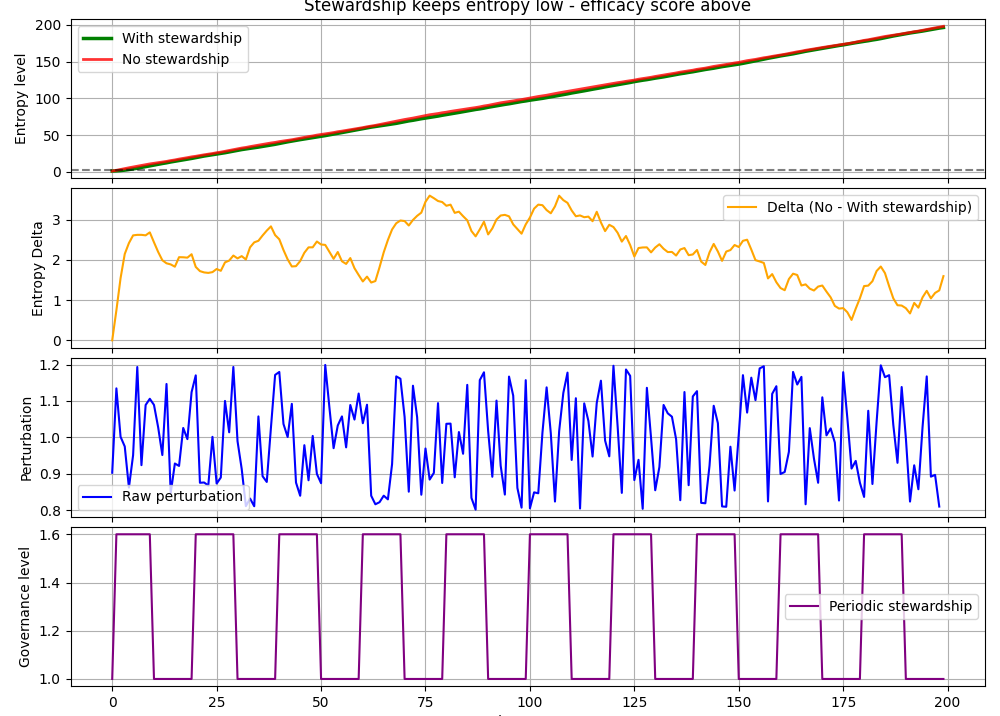
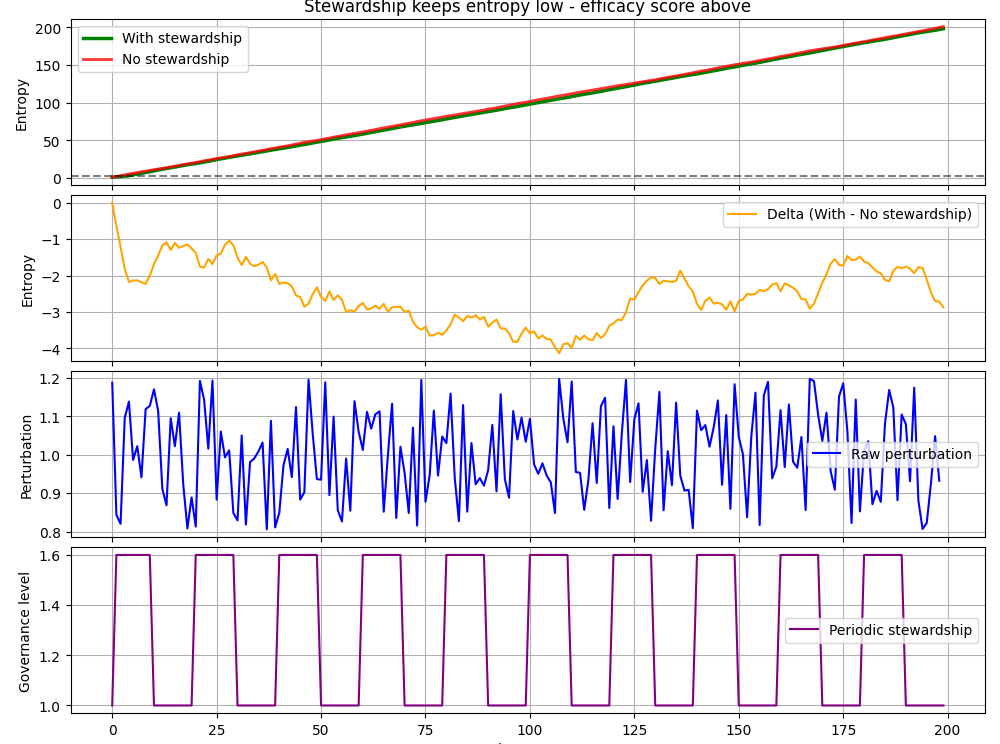
Add files via upload

diff --git a/principles/07_stewardship/07_Stewardship_Entropy.py b/principles/07_stewardship/07_Stewardship_Entropy.py
@@ -41,28 +41,28 @@ for i in range(1, steps):
     slope_u.append(new_slope)
     entropy_u.append(new_ent)
 
-# One-score metric: mean final stretch efficacy
-efficacy = np.mean(entropy_g[-20:]) - np.mean(entropy_u[-20:])
+# One-score metric: mean final stretch efficacy (using negative entropy for consistency)
+efficacy = np.mean([-e for e in entropy_g[-20:]]) - np.mean([-e for e in entropy_u[-20:]])
 print(f"Stewardship efficacy score: {efficacy:.3f}")
 
-# Calculate delta
-delta_entropy = [u - g for u, g in zip(entropy_u, entropy_g)]
+# Calculate delta (No - With stewardship for negative entropy)
+delta_entropy = [g -u for g, u in zip(entropy_g, entropy_u)]  # Reflects -(g - u) for negative entropy delta
 
 # Plot with four subplots
 fig, (ax1, ax2, ax3, ax4) = plt.subplots(4, 1, figsize=(10, 14), sharex=True)
 
-# Entropy plot
+# Positive entropy plot
 ax1.plot(entropy_g, label='With stewardship', linewidth=2.5, color='green')
 ax1.plot(entropy_u, label='No stewardship', linewidth=2, color='red', alpha=0.8)
 ax1.axhline(2.0, color='k', linestyle='--', alpha=0.5)
-ax1.set_ylabel('Entropy level')
+ax1.set_ylabel('Entropy')
 ax1.set_title('Stewardship keeps entropy low - efficacy score above')
 ax1.legend()
 ax1.grid(True)
 
-# Delta plot
-ax2.plot(delta_entropy, label='Delta (No - With stewardship)', linewidth=1.5, color='orange')
-ax2.set_ylabel('Entropy Delta')
+# Delta plot (negative entropy context)
+ax2.plot(delta_entropy, label='Delta (With - No stewardship)', linewidth=1.5, color='orange')
+ax2.set_ylabel('Entropy')
 ax2.legend()
 ax2.grid(True)
 
